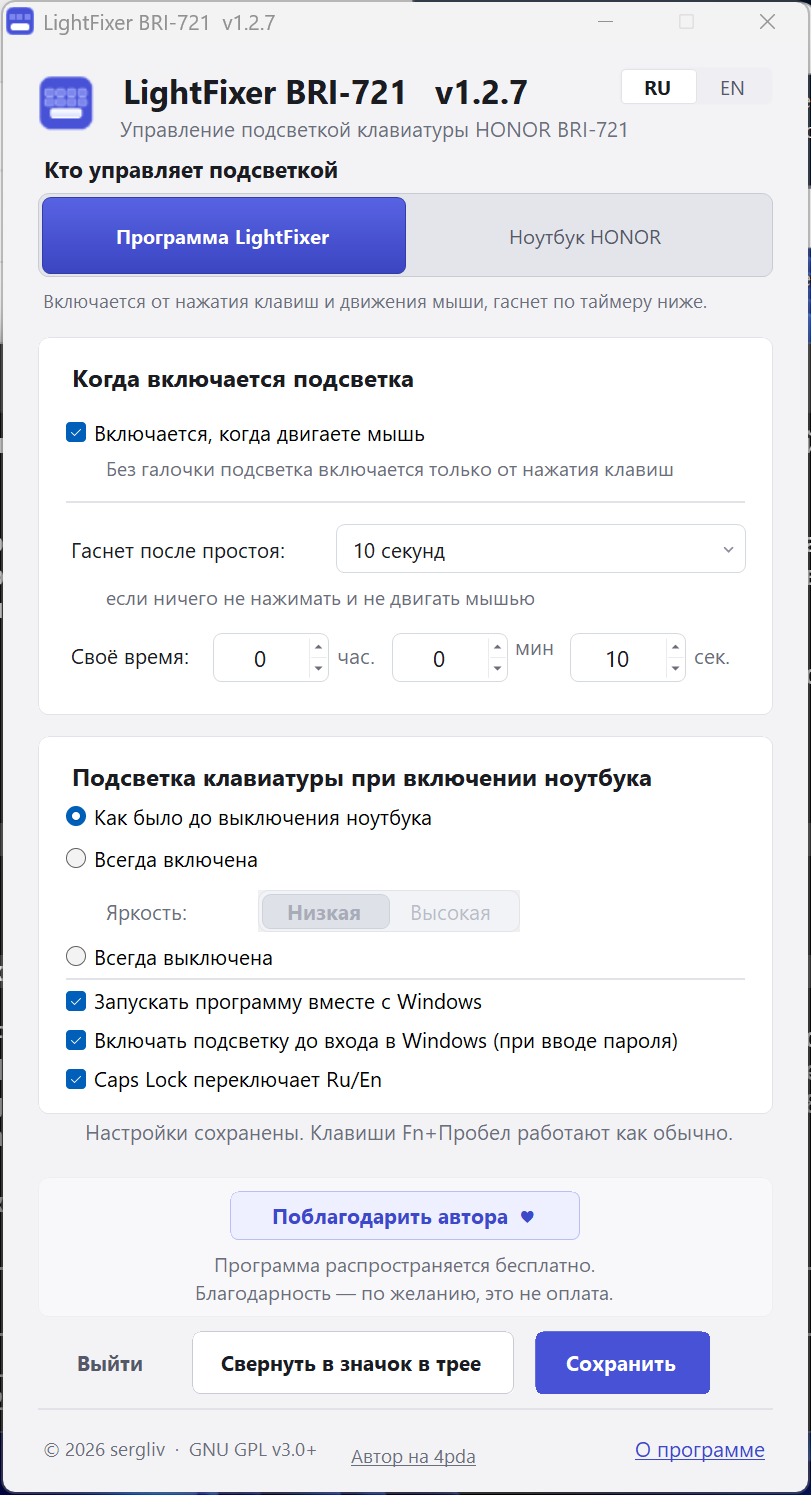
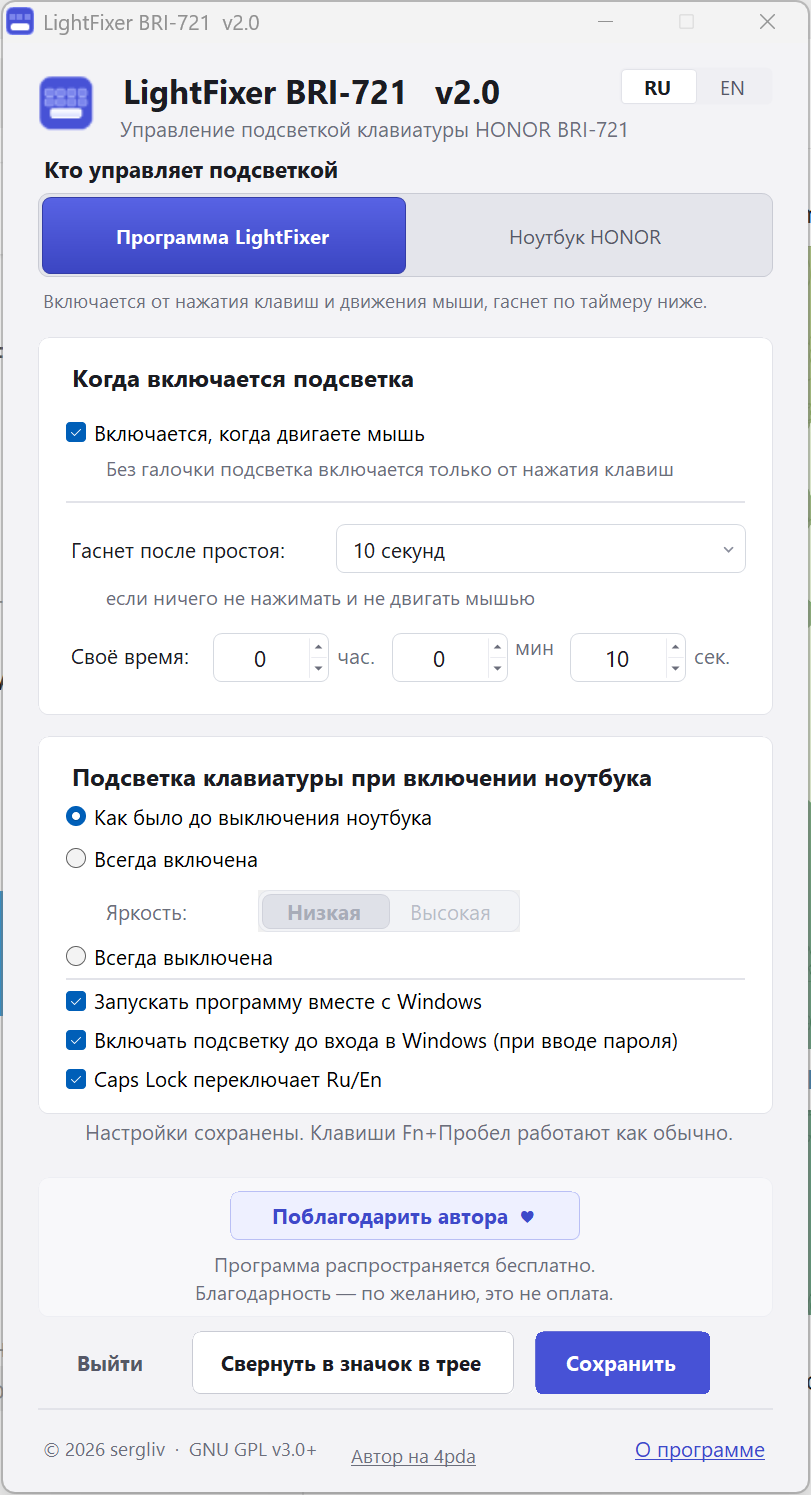
2.0: событийное ядро Fn+Space, расход 0,03 % ядра

Changed region(s): [[0.0, 0.0, 1.0, 1.0], [0.5549, 0.0308, 0.6473, 0.0923], [0.3083, 0.0, 0.3391, 0.0308]]

diff --git a/LightFixer.cs b/LightFixer.cs
@@ -34,8 +34,8 @@ using System.Windows.Forms;
 
 // the same number must stand in three places: here, in app.manifest and in the window;
 // bump them together
-[assembly: AssemblyVersion("1.2.7.0")]
-[assembly: AssemblyFileVersion("1.2.7.0")]
+[assembly: AssemblyVersion("2.0.0.0")]
+[assembly: AssemblyFileVersion("2.0.0.0")]
 [assembly: AssemblyProduct("LightFixer BRI-721")]
 [assembly: AssemblyCopyright("Copyright (C) 2026 sergliv")]
 
@@ -1803,7 +1803,7 @@ namespace LightFixer
             // the window is rebuilt on every language change: the old tips would leak
             if (tipStartup != null) { tipStartup.Dispose(); tipStartup = null; }
             form = new Form();
-            form.Text = "LightFixer BRI-721  v1.2.7";
+            form.Text = "LightFixer BRI-721  v2.0";
             form.AutoScaleMode = AutoScaleMode.None;
             form.ClientSize = new Size(460, 828);
             form.StartPosition = FormStartPosition.CenterScreen;
@@ -1822,7 +1822,7 @@ namespace LightFixer
             form.Controls.Add(picLogo);
 
             Label title = new Label();
-            title.Text = "LightFixer BRI-721   v1.2.7";
+            title.Text = "LightFixer BRI-721   v2.0";
             title.Font = new Font("Segoe UI", 14f, FontStyle.Bold);
             title.ForeColor = CText;
             title.TextAlign = ContentAlignment.MiddleLeft;
@@ -2320,7 +2320,7 @@ namespace LightFixer
             dirty = false;
             SetStatus(0, L("Настройки сохранены. Клавиши Fn+Пробел работают как обычно.",
                               "Settings are saved. Fn+Space works as usual."));
-            if (form != null) form.Text = "LightFixer BRI-721  v1.2.7";
+            if (form != null) form.Text = "LightFixer BRI-721  v2.0";
         }
 
         // ---------- unsaved changes ----------
@@ -2433,7 +2433,7 @@ namespace LightFixer
                 }
 
                 dirty = false;
-                if (form != null) form.Text = "LightFixer BRI-721  v1.2.7";
+                if (form != null) form.Text = "LightFixer BRI-721  v2.0";
                 ApplyStartUpTicks();
                 string savedText = L("Сохранено. Уже действует.", "Saved. Now in effect.");
                 SetStatus(2, savedText);
@@ -2586,7 +2586,7 @@ namespace LightFixer
                             "Keyboard backlight control for HONOR BRI-721"), ContentAlignment.MiddleLeft);
 
                 Label pill = new Label();
-                pill.Text = L("версия 1.2.7", "version 1.2.7");
+                pill.Text = L("версия 2.0", "version 2.0");
                 pill.ForeColor = CLink;
                 pill.TextAlign = ContentAlignment.MiddleCenter;
                 pill.AutoSize = false;

diff --git a/README.md b/README.md
@@ -1,10 +1,12 @@
-# LightFixer BRI-721  —  версия 1.2.7
+# LightFixer BRI-721  —  версия 2.0
 
 Фиксер подсветки клавиатуры ноутбука **HONOR X16 Plus BRI-721** под Windows 11.
 
 Английская версия: [README.en.md](README.en.md)
 
-**Что нового в 1.2.7.** Нажатие Fn+Пробел программа теперь узнаёт от самого ноутбука: контроллер сообщает Windows, какой шаг нажат, и программа слышит это сразу, за доли миллисекунды. Раньше приходилось десять раз в секунду спрашивать прошивку, какой сейчас свет, — этим и объяснялась задержка до двух-трёх секунд в простое. Замер на этой модели: обработка нажатия **0 мс**, расход в простое — почти ноль. Страховка осталась: одно чтение света раз в 30 секунд и ещё одно после пробуждения; если оно заметит смену, о которой сообщения не было, программа сама вернётся к частой проверке и напишет об этом в журнал.
+**Что нового в 2.0.** Главное изменение: нажатие Fn+Пробел программа теперь узнаёт от самого ноутбука. Контроллер сообщает Windows, какой шаг нажат, и программа слышит это сразу — за доли миллисекунды, а не «когда посмотрит». Поэтому исчезла задержка до двух-трёх секунд, которая была при нажатии после простоя, и убран постоянный опрос прошивки. Заодно расход упал: около **0,03 % одного ядра** против 0,3–0,55 % в первых версиях (за час простоя — примерно секунда работы процессора). Страховка осталась: одно чтение света раз в 30 секунд и ещё одно после пробуждения; если оно заметит смену, о которой сообщения не было, программа сама вернётся к частой проверке и напишет об этом в журнал. В 2.0 входит всё, что было наработано с 1.0: Caps Lock переключает Ru/En, подсветка при включении ноутбука, гашение по простою, режим «Штатные настройки HONOR».
+
+**Что было в 1.2.7.** (вошло в 2.0) Нажатие Fn+Пробел узнаётся событием ноутбука, опрос прошивки убран.
 
 **Что было в 1.2.6.** Caps Lock снова переключает Ru/En сразу после входа в Windows: программа ставит перехват клавиатуры в самом начале запуска, а не после работы с Планировщиком заданий (раньше на это уходило до 18 секунд). Если окно впереди не принимает переключение (так бывает, например, с Проводником), программа повторяет просьбу вторым способом — через системное переключение раскладки.
 

diff --git a/README.en.md b/README.en.md
@@ -1,16 +1,20 @@
-# LightFixer BRI-721  —  version 1.2.7
+# LightFixer BRI-721  —  version 2.0
 
 Keyboard backlight helper for the **HONOR X16 Plus 2024 (BRI-721)** notebook on Windows 11.
 
-**New in 1.2.7.** A press of Fn+Space is now reported to the program by the laptop
-itself: the controller tells Windows which step was pressed, and the program hears
-it at once, within milliseconds. Before, the firmware had to be asked ten times a
-second what the light was doing — that is where the two-to-three-second delay in
-idle came from. Measured on this model: a press is handled in **0 ms**, and idling
-costs almost nothing. The safety net stays: one read of the light every 30 seconds
-and one more after waking up; if it ever sees a change that was not reported, the
-program goes back to the frequent reading by itself and writes about it to the
-journal.
+**New in 2.0.** The main change: a press of Fn+Space is now reported to the program
+by the laptop itself. The controller tells Windows which step was pressed, and the
+program hears it at once — within milliseconds, not "the next time it looks". The
+two-to-three-second delay after idling is gone, and the constant asking of the
+firmware is gone with it. The cost dropped too: about **0.03 % of one core** against
+0.3–0.55 % in the first versions (roughly one second of processor time per hour of
+idling). The safety net stays: one read of the light every 30 seconds and one more
+after waking up; if it ever sees a change that was not reported, the program goes
+back to the frequent reading by itself and writes about it to the journal. Version
+2.0 includes everything built up since 1.0: Caps Lock switches Ru/En, the backlight
+level at power-on, switching off after a pause, and the "HONOR's own settings" mode.
+
+**Was new in 1.2.7.** (part of 2.0) A press of Fn+Space is heard as an event from the laptop, the polling of the firmware is gone.
 
 **Was new in 1.2.6.** Caps Lock switches Ru/En right after sign-in again: the keyboard hook is installed at the very beginning of the launch, not after the work with Task Scheduler (which used to take up to 18 seconds). If the window in front refuses the switch (Explorer does, for example), the request is repeated the system way.
 
